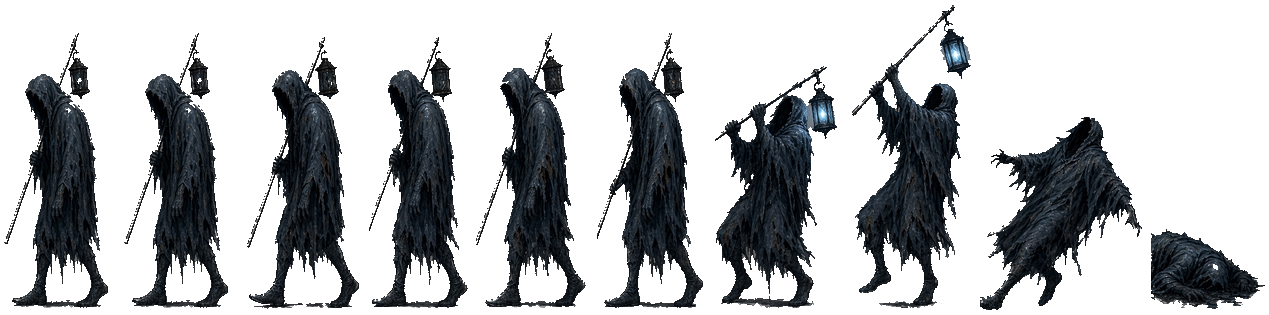
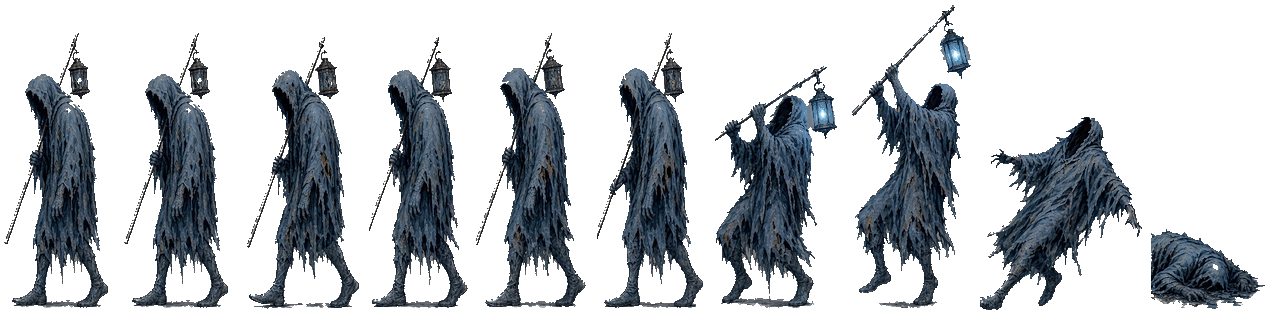
fix(nemici): revisione CONTROLLO-SLICE3 B: Ratking contorno 3 px + rim #8FD3FF 2 px alfa 0,5, preavviso della carica senza tinta (anello ocra, lampo 0,15 s, modulate 1.25/1.1/1); Lanterniere contorno 3 px + rim #8FD3FF alfa 0,6, lanterna sempre accesa (alone 40 px, 0,5, pieno nel windup), ombre del 

Changed region(s): [[0.0, 0.1714, 1.0, 1.0], [0.7069, 0.0571, 0.7683, 0.2286]]

diff --git a/tools/art/enemies_v2/schiarisci_lanterniere.py b/tools/art/enemies_v2/schiarisci_lanterniere.py
@@ -1,0 +1,10 @@
+## Lanterniere v2 (CONTROLLO-SLICE3 punto 7): solleva le ombre del mantello perché la parte in luce
+## non scenda sotto circa #3A4656 su fondale scuro. Curva sui toni scuri (il nero puro resta nero,
+## i toni medi e la lanterna restano invariati). Uso: python schiarisci_lanterniere.py PNG
+import sys, numpy as np
+from PIL import Image
+p=sys.argv[1]; a=np.asarray(Image.open(p).convert('RGBA')).astype(float)
+c=a[...,:3]; L=c@np.array([0.299,0.587,0.114])
+f=1+1.6*np.clip(1-L/120,0,1)
+a[...,:3]=np.clip(c*f[...,None],0,255)
+Image.fromarray(a.astype(np.uint8),'RGBA').save(p); print('ok',p)
